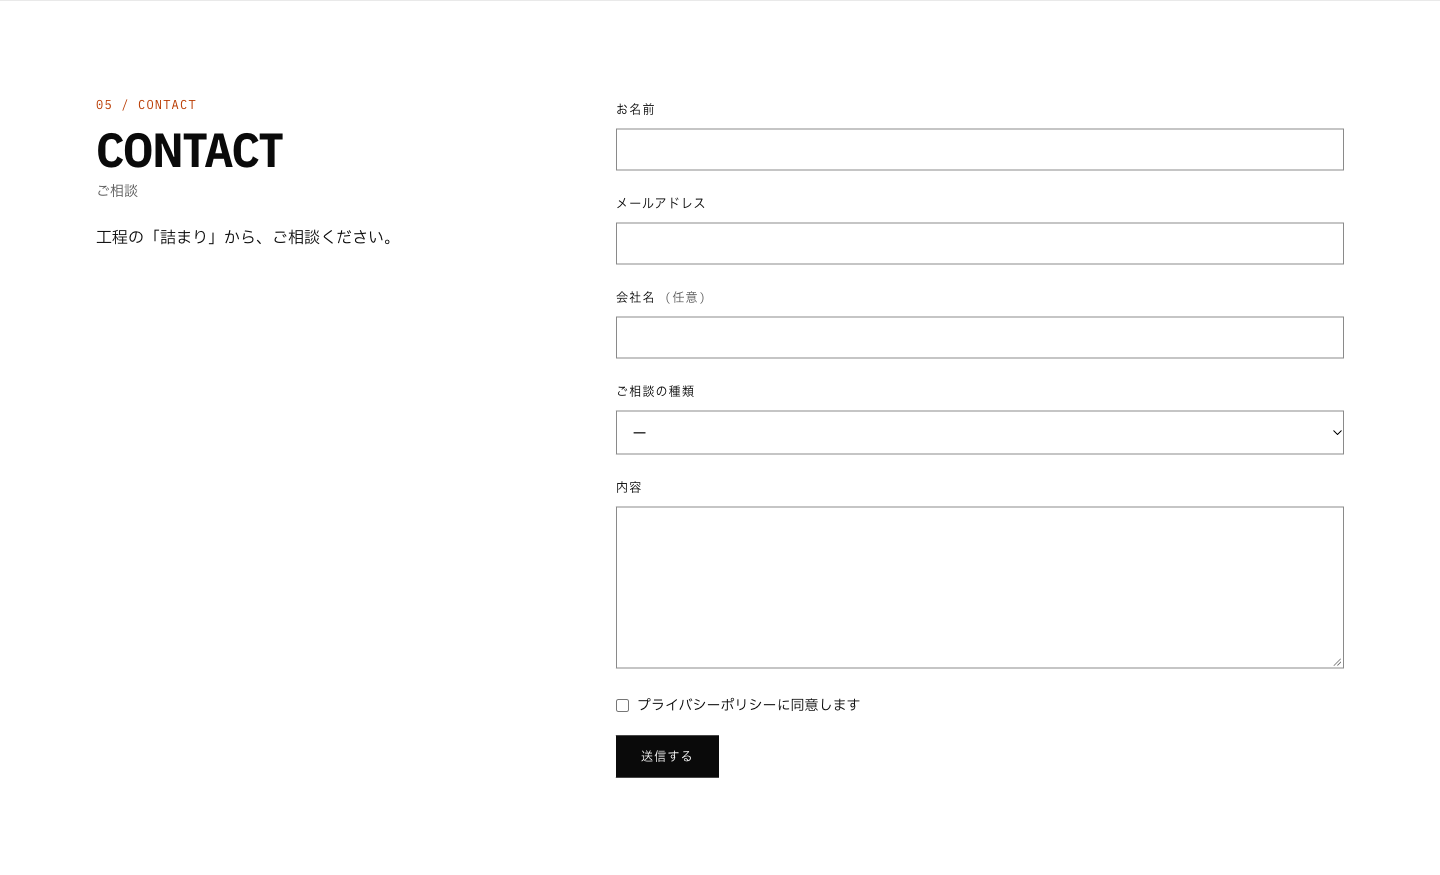
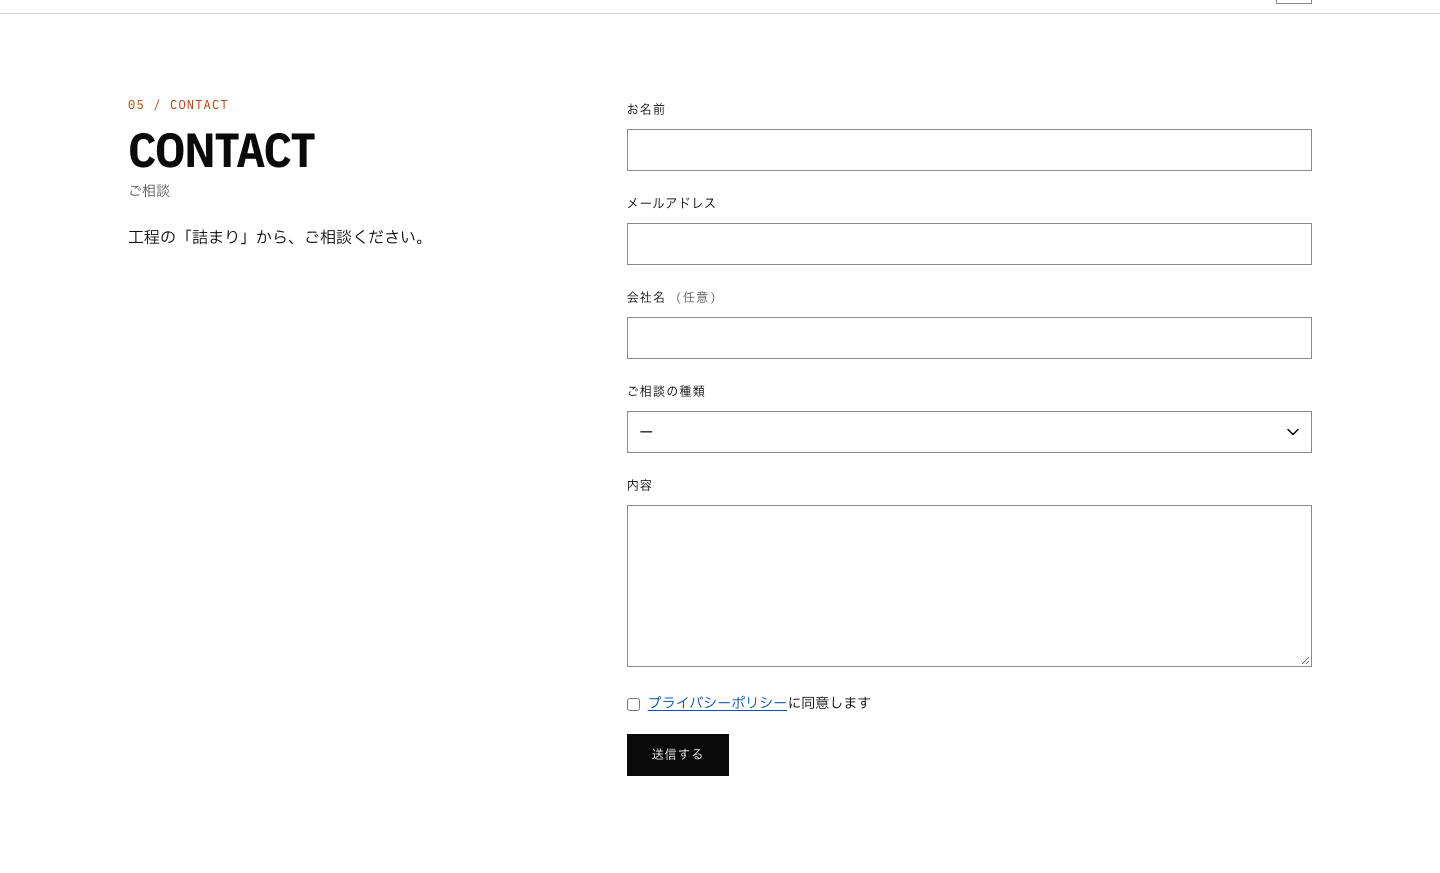
docs: rewrite the readme and retake the screenshots

diff --git a/README.md b/README.md
@@ -35,6 +35,41 @@ Contact:
 
 ![Contact section](screenshots/contact.png)
 
+## Architecture
+
+```mermaid
+flowchart LR
+  visitor([Visitor]) --> cdn[Vercel CDN]
+  cdn --> pages["Static pages<br/>(home, privacy)"]
+  content["content/*.ts and<br/>content/news/*.md"] -- "zod schemas,<br/>checked at build" --> pages
+  pages --> hero["3D hero<br/>starts after the first paint"]
+  visitor -- contact form --> action["Server Action<br/>submitContact"]
+  action --> limit["Rate limit<br/>(in memory)"]
+  limit --> validate["Validate again<br/>(same schema)"]
+  validate --> mail{"Mail settings?"}
+  mail -- "all three" --> resend[(Resend)]
+  mail -- none --> demo["Demo mode<br/>(nothing is sent)"]
+  pr[Pull request] --> ci["CI: check, E2E,<br/>performance budget,<br/>security"]
+  ci --> main[main branch] --> cdn
+```
+
+- The pages are generated at build time from `content/`. The only code that runs per request is the contact server action.
+- The 3D hero is loaded after the first paint, in an idle period, and stops drawing when it is off screen, the tab is hidden or the visitor asked for less motion.
+- Every decision that is not obvious from the code has a record in `docs/adr/` (see the list below).
+
+### Project structure
+
+| Path              | What it holds                                                                                                        |
+| ----------------- | -------------------------------------------------------------------------------------------------------------------- |
+| `content/`        | Every text, number and link of the page as typed data (`site.ts`, `sections/`, `privacy.ts`), and the news (`news/`) |
+| `src/app/`        | Pages, layout, metadata routes (robots, sitemap, manifest, icons, link preview image) and the contact server action  |
+| `src/components/` | Section components (`sections/`), the 3D scene (`scene/`), layout parts, shared UI parts and the structured data     |
+| `src/lib/`        | Content schemas (`content/schema/`), contact handling, news loading, security (headers, rate limit) and SEO helpers  |
+| `e2e/`            | Playwright tests that run against a production build                                                                 |
+| `scripts/`        | `content-check.ts` (the content check) and `ci-linux/` (the CI jobs in a Linux container)                            |
+| `docs/adr/`       | Architecture decision records                                                                                        |
+| `.github/`        | Workflows (CI, security), Dependabot settings and the branch protection files                                        |
+
 ## Stack
 
 - **Framework:** Next.js 16 (App Router, Turbopack) and React 19.
@@ -47,41 +82,81 @@ Contact:
 - **Mail:** Resend through its REST API, optional; without settings the form runs in demo mode.
 - **Unit tests:** Vitest, Testing Library and jsdom, for components, pure functions, content schemas and the server action.
 - **E2E tests:** Playwright (Chromium), for layout, keyboard use, theme, reduced motion, the contact flow and response headers in a real browser.
-- **Quality:** ESLint and Prettier, run locally and in CI.
+- **Quality:** ESLint, Prettier, Lighthouse CI, CodeQL and secret scanning, run locally and in CI.
 - **CI:** GitHub Actions on Node 24.
 - **Hosting:** Vercel.
 
+## Getting started
+
+Requirements:
+
+- Node.js 24 (the version in `.nvmrc`; the CI uses the latest 24.x) and npm 11.19.0 or newer. `package.json` and `.npmrc` make npm refuse older versions.
+- Docker, only if you want to run the CI jobs in a Linux container (see "Verifying a change").
+
+```bash
+nvm use
+npm ci
+npm run dev
+```
+
+The site is then at <http://localhost:3000>. The contact form works without any setting (demo mode); see "Environment variables".
+
+To look at the production build instead:
+
+```bash
+npm run build
+npm run start
+```
+
 ## Scripts
 
-- `npm run dev`: start the development server.
-- `npm run check`: lint, typecheck, format check and unit tests.
-- `npm run test:coverage`: unit tests with coverage; fails when statements, branches, functions or lines fall below 95% (the CI runs this; `src/app/fonts.ts` and `src/app/layout.tsx` are left out because the end-to-end tests check them).
-- `npm run build`: build for production.
-- `npm run test:e2e`: build, start on port 3100 and run Playwright.
-- `npm run test:perf`: run Lighthouse CI against a production build (run `npm run build` first) and fail when a performance budget is exceeded.
+| Command                 | What it does                                                                                                                 |
+| ----------------------- | ---------------------------------------------------------------------------------------------------------------------------- |
+| `npm run dev`           | Start the development server.                                                                                                |
+| `npm run build`         | Build for production.                                                                                                        |
+| `npm run start`         | Start the production build.                                                                                                  |
+| `npm run check`         | Lint, typecheck, format check and unit tests. The pre-push hook runs this.                                                   |
+| `npm run lint`          | ESLint, with limits on complexity (10), function length (80 lines), nesting (4), parameters (4) and file length (200 lines). |
+| `npm run typecheck`     | Type check.                                                                                                                  |
+| `npm run format`        | Format with Prettier (`format:check` only checks).                                                                           |
+| `npm run test`          | Unit tests (`test:watch` runs them on every change).                                                                         |
+| `npm run test:coverage` | Unit tests with coverage; fails below 95% for statements, branches, functions or lines (the CI runs this).                   |
+| `npm run test:e2e`      | Build, start on port 3100 and run Playwright.                                                                                |
+| `npm run test:perf`     | Lighthouse CI on a production build (run `npm run build` first); fails when a performance budget is exceeded.                |
+| `npm run content:check` | Check the content: the news files and every content file against their schemas. Lists every problem.                         |
+| `npm run secrets:check` | Scan the whole repository for secrets.                                                                                       |
 
-## Dependencies
+`src/app/fonts.ts` and `src/app/layout.tsx` are left out of the coverage because the end-to-end tests check them.
 
-A few packages are kept behind the latest major version on purpose:
+## Verifying a change
 
-- `eslint` 9: the React, JSX accessibility and import plugins that Next.js bundles do not accept ESLint 10 yet.
-- `typescript` 6.0: `typescript-eslint` does not accept TypeScript 6.1 or newer yet.
-- `@types/node` 24: the types follow the Node 24 runtime.
+- **Before a commit:** staged files are linted, formatted and scanned for secrets (husky and lint-staged).
+- **Before a push:** `npm run check` runs and stops the push if it fails.
+- **On a pull request:** the CI runs three jobs, and the security workflow runs three more. All of them must pass to merge into `main`.
 
-## Content
+| Job                                       | What it checks                                                           |
+| ----------------------------------------- | ------------------------------------------------------------------------ |
+| Lint, typecheck, format, unit test, build | `npm run lint`, `typecheck`, `format:check`, `test:coverage` and `build` |
+| E2E                                       | `npm run test:e2e` on Chromium                                           |
+| Performance Budget                        | `npm run test:perf`, the report is kept as an artifact                   |
+| Dependency Audit                          | `npm audit --omit=dev --audit-level=high`                                |
+| Dependency Review                         | The dependencies a pull request adds (pull requests only)                |
+| CodeQL                                    | Static analysis of the TypeScript                                        |
 
-Every word and number on the page lives in `content/`.
-Components only receive typed props, and the content is validated with zod at build time.
+### The CI jobs in a Linux container
 
-Only the pages, the layout, and the news loader read, the contact server action `content/` directly.
-The 3D colors and motion constants live in `src/components/scene/`.
+The CI runs on Linux, and some layout tests depend on how a platform rounds the width of small letters. To run the same jobs on your machine:
 
-## Design notes
+```bash
+scripts/ci-linux/run.sh check
+scripts/ci-linux/run.sh e2e
+scripts/ci-linux/run.sh perf
+scripts/ci-linux/run.sh
+```
 
-- **Inverted space.**
-- **One 3D scene, paid for only when seen.**
-- **Content as data.**
-- **Contact form without a mail account.**
+The last command runs all three jobs in one container. It needs a running Docker (Docker Desktop, or Colima with about 4 GB of memory), copies the files that git tracks or would track to a temporary folder under `~/.cache/space-log-ci`, installs the dependencies with the same npm as the CI and builds an image for the Playwright version in `package.json` on the first run (about 3.5 GB).
+
+There is no dev container on purpose: the Node version, the npm version and the lock file are already pinned, and a container would add several gigabytes for little gain.
 
 ## Environment variables
 
@@ -95,6 +170,62 @@ Set all three to send real mail; setting only some makes the form report a failu
 Put them in `.env.local` (git-ignored) for local use, or in the host's environment settings.
 `.env.example` lists the names.
 
+## Content
+
+Every word and number on the page lives in `content/`.
+Components only receive typed props, and the content is validated with zod at build time.
+
+Only the pages, the layout, the news loader and the contact server action read `content/` directly.
+The 3D colors and motion constants live in `src/components/scene/`.
+
+### Adding a news entry
+
+1. Add a file `content/news/YYYY-MM-DD-some-words.md`. The date and the words use lower-case letters, digits and hyphens only.
+2. Write the front matter, and nothing else is needed (the body is not used):
+
+   ```md
+   ---
+   date: "2026-11-01"
+   kind: added
+   text: "A short line about what changed"
+   ---
+   ```
+
+   `kind` is `added`, `updated` or `fixed`. The `date` must be the same as the date in the file name.
+
+3. Run `npm run content:check`. It lists every wrong file with the reason; fix them and run it again until it passes.
+4. Run `npm run dev` and look at the news section. The home page shows the newest entries and pages through the rest.
+
+### Changing a section
+
+The texts of the other sections are in `content/sections/<section>.ts` (hero, inversion, news, pipeline, tools, contact) and `content/site.ts` (for the news section the file holds the headings and the paging; the entries are the files in `content/news/`); the privacy policy is in `content/privacy.ts`. Their shapes are the zod schemas in `src/lib/content/schema/`, so a missing or wrong field is reported by `npm run content:check` and fails the build.
+
+- A tool needs a unique `id` (lower-case letters and hyphens), a name, at least one tag, a summary and a detail. Its repository link is optional and must be an `https://github.com/...` address.
+- A pipeline stage needs a unique `id`, a stage name, a tool, a role, a detail and at least one line of terminal output. There must be at least two stages.
+
+### Before publishing
+
+- Read the page once for typos and for lines that no longer match what the studio does.
+- Open every link you added.
+- Check the numbers against their source.
+- Run `npm run check` and `npm run content:check`.
+- The studio, its clients and its figures are made up; keep it that way and do not name real companies or projects.
+
+## Design decisions
+
+The records are in `docs/adr/`. Each one has the context, the decision, the consequences and the alternatives that were considered.
+
+| Record                                                      | Decision                                                                               |
+| ----------------------------------------------------------- | -------------------------------------------------------------------------------------- |
+| [0001](docs/adr/0001-react-three-fiber-hero.md)             | The hero is a React Three Fiber point cloud that starts after the first paint          |
+| [0002](docs/adr/0002-keep-unsafe-inline-script-src.md)      | The script policy keeps `'unsafe-inline'` (measured; a nonce makes every page dynamic) |
+| [0003](docs/adr/0003-in-memory-rate-limiting.md)            | The contact form is rate limited in memory                                             |
+| [0004](docs/adr/0004-content-as-typed-files.md)             | The texts live in typed files and are checked with schemas                             |
+| [0005](docs/adr/0005-mail-through-resend-with-demo-mode.md) | Mail goes through Resend, and the form runs in demo mode without settings              |
+| [0006](docs/adr/0006-performance-budgets-and-fonts.md)      | Performance is guarded by budgets measured on the CI, and the fonts stay as they are   |
+| [0007](docs/adr/0007-quality-gates.md)                      | Limits on size and complexity, a coverage floor and checks before each commit and push |
+| [0008](docs/adr/0008-dependencies-and-automation.md)        | Dependencies are updated by small steps, and some majors are held back on purpose      |
+
 ## Accessibility
 
 Lighthouse accessibility is 100 for the home page and the privacy page, in both themes.
@@ -103,12 +234,21 @@ Every Tab stop shows the same 2 px focus ring (checked in both themes and under 
 
 ## Performance
 
-Measured on a production build in Chrome on an Apple M2 (1440×900):
+Lighthouse on a production build (2026-10-26, three runs each, Chrome on an Apple M2, ranges over the runs):
 
-- 59–61 fps and no long tasks with the hero on screen, while the pointer moves over it, and scrolled down to the tools table, in both themes.
-- Lighthouse: Performance 99–100 in repeated runs (the first run after a cold start scored lower), Best Practices 100, SEO 100.
+| Page    | Preset  | Score        | Largest paint (simulated) | Blocking time | Transfer |
+| ------- | ------- | ------------ | ------------------------- | ------------- | -------- |
+| Home    | Desktop | 0.99 to 1.00 | 0.7 s                     | 0 ms          | 1.05 MB  |
+| Home    | Mobile  | 0.82 to 0.90 | 3.1 to 3.9 s              | 169 to 266 ms | 1.05 MB  |
+| Privacy | Desktop | 1.00         | 0.7 s                     | 0 ms          | 0.68 MB  |
+| Privacy | Mobile  | 0.80 to 0.94 | 3.0 to 4.2 s              | 0 to 7 ms     | 0.68 MB  |
 
-Performance budgets are checked on every pull request (`.lighthouserc.cjs`, the Performance Budget job): mobile score, LCP, JavaScript and total transfer size for each page, plus layout shift and blocking time. The budgets are the measured values plus a margin, and are lowered when a change makes the pages lighter.
+- The mobile numbers use Lighthouse's slow-connection simulation. The largest paint measured without it is 0.08 to 0.15 s on this machine (0.2 to 0.4 s on the CI).
+- Most of the transfer is the Japanese font (about 450 KB in small pieces) and three.js (about 245 KB). ADR-0006 explains why they stay.
+- On the CI there is no graphics card, so the hero is drawn in software: the home page scores about 0.6 there and its blocking time is several seconds. Its budgets are set from the CI numbers and are lowered when the scene gets cheaper.
+- With the hero on screen, the pointer moving over it and scrolled to the tools table, the scene runs at 59 to 61 fps with no long tasks on an Apple M2, in both themes.
+
+Performance budgets are checked on every pull request (`.lighthouserc.cjs`, the Performance Budget job): mobile score, largest paint, JavaScript and total transfer size for each page, plus layout shift and blocking time. The budgets are the measured values plus a margin, and are lowered when a change makes the pages lighter.
 
 ## Search and sharing
 
@@ -119,11 +259,33 @@ Performance budgets are checked on every pull request (`.lighthouserc.cjs`, the 
 ## Security
 
 - Response headers:
-  Content-Security-Policy, Strict-Transport-Security, X-Content-Type-Options, X-Frame-Options, Referrer-Policy, Permissions-Policy.(The `X-Powered-By` header is off.)
-- The `script-src` of the Content-Security-Policy keeps `'unsafe-inline'`: removing it needs a per-request nonce, which makes every page dynamic (no CDN cache, about 4 times the response time in a local measurement). The pages show no user input, and everything else in the policy stays strict.
-- The contact form validates on the client and again on the server, rejects control characters in single-line fields, has a hidden trap field, and allows 5 sends per visitor per 10 minutes.
-- `npm audit --omit=dev` reports no vulnerabilities in the production dependencies.
+  Content-Security-Policy, Strict-Transport-Security, X-Content-Type-Options, X-Frame-Options, Referrer-Policy, Permissions-Policy. (The `X-Powered-By` header is off.)
+- The `script-src` of the Content-Security-Policy keeps `'unsafe-inline'`: removing it needs a per-request nonce, which makes every page dynamic (no CDN cache, about 4 times the response time in a local measurement). The pages show no user input, and everything else in the policy stays strict (ADR-0002).
+- The contact form validates on the client and again on the server, rejects control characters in single-line fields, has a hidden trap field, and allows 5 sends per visitor per 10 minutes (ADR-0003).
+- `npm audit --omit=dev` reports no vulnerabilities in the production dependencies. Dependabot, a dependency review of pull requests, CodeQL, secret scanning with push protection and a secret scan before each commit are on (ADR-0008).
 - The site sets no cookies and stores only the chosen theme in the browser.
+
+## Deployment
+
+1. Import the repository in Vercel; the framework is detected as Next.js.
+2. Optionally set the three mail variables for Production and Preview (see "Environment variables").
+3. `main` is the production branch. Every pull request gets a preview, and previews are kept out of search results.
+4. Work happens on `develop`; open a pull request into `main` and merge it with a merge commit once all checks pass. The deployment to production follows the merge.
+5. The branch protection is kept as files in `.github/branch-protection/` and applied by the repository owner:
+
+   ```bash
+   gh api -X PUT repos/<owner>/<repo>/branches/main/protection --input .github/branch-protection/main.json
+   gh api -X PUT repos/<owner>/<repo>/branches/develop/protection --input .github/branch-protection/develop.json
+   gh api -X PUT repos/<owner>/<repo>/automated-security-fixes
+   ```
+
+## Dependencies
+
+A few packages are kept behind the latest major version on purpose (ADR-0008):
+
+- `eslint` 9: the React, JSX accessibility and import plugins that Next.js bundles do not accept ESLint 10 yet.
+- `typescript` 6.0: `typescript-eslint` does not accept TypeScript 6.1 or newer yet.
+- `@types/node` 24: the types follow the Node 24 runtime.
 
 ## Credits
 
